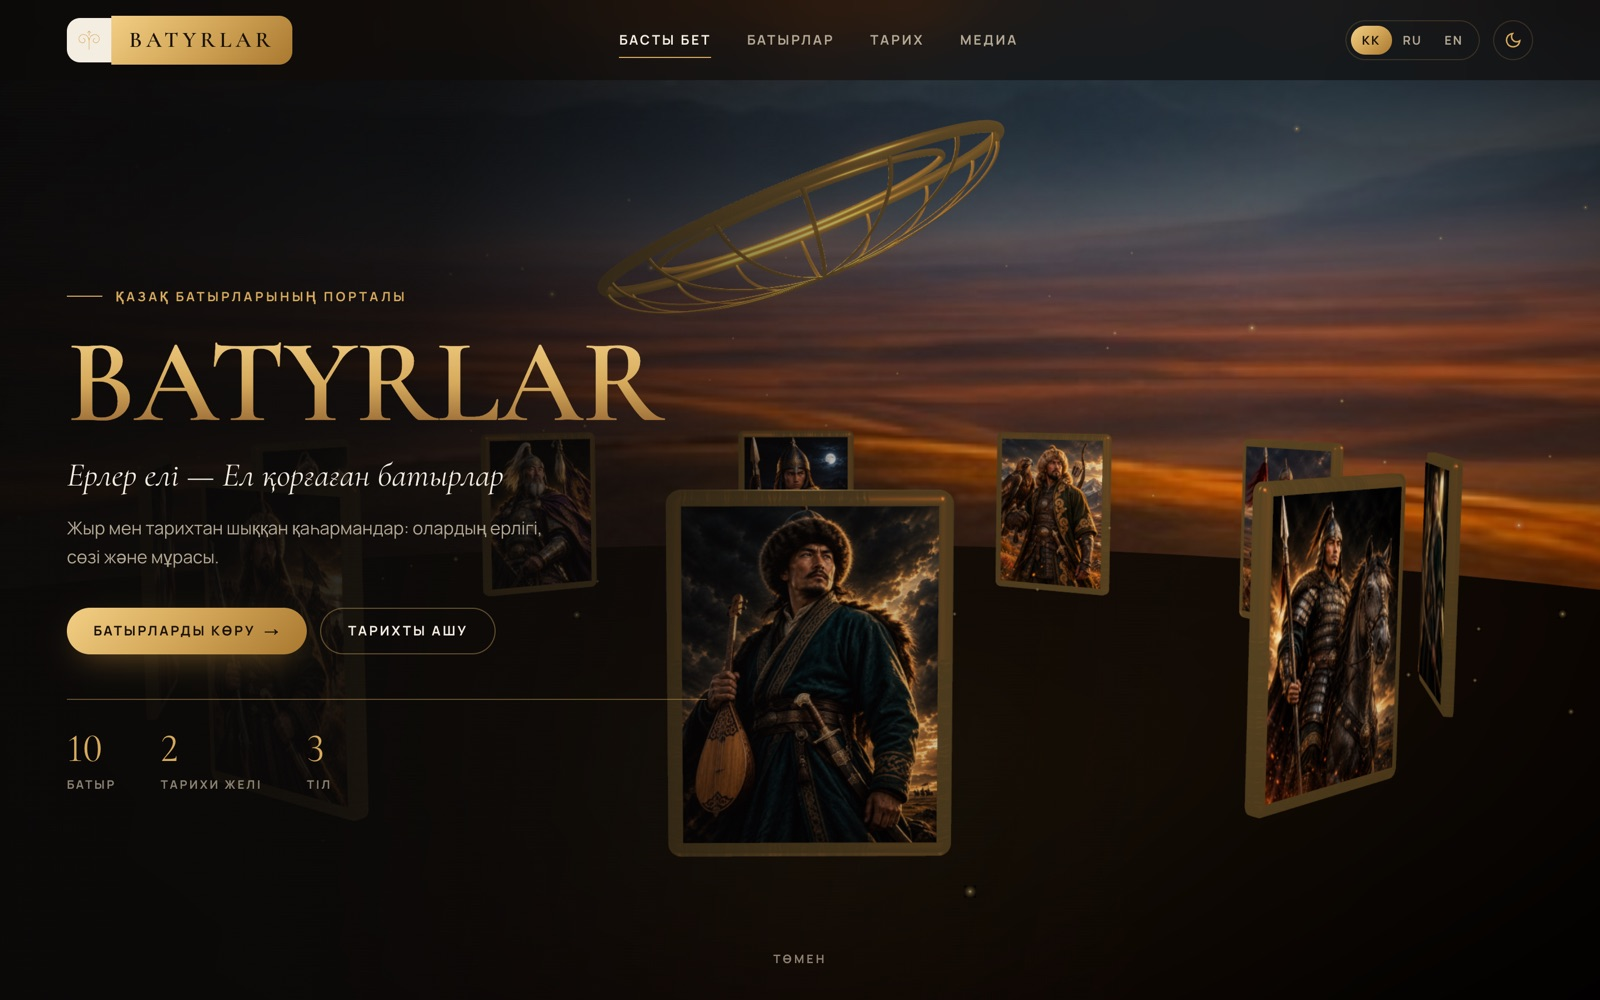
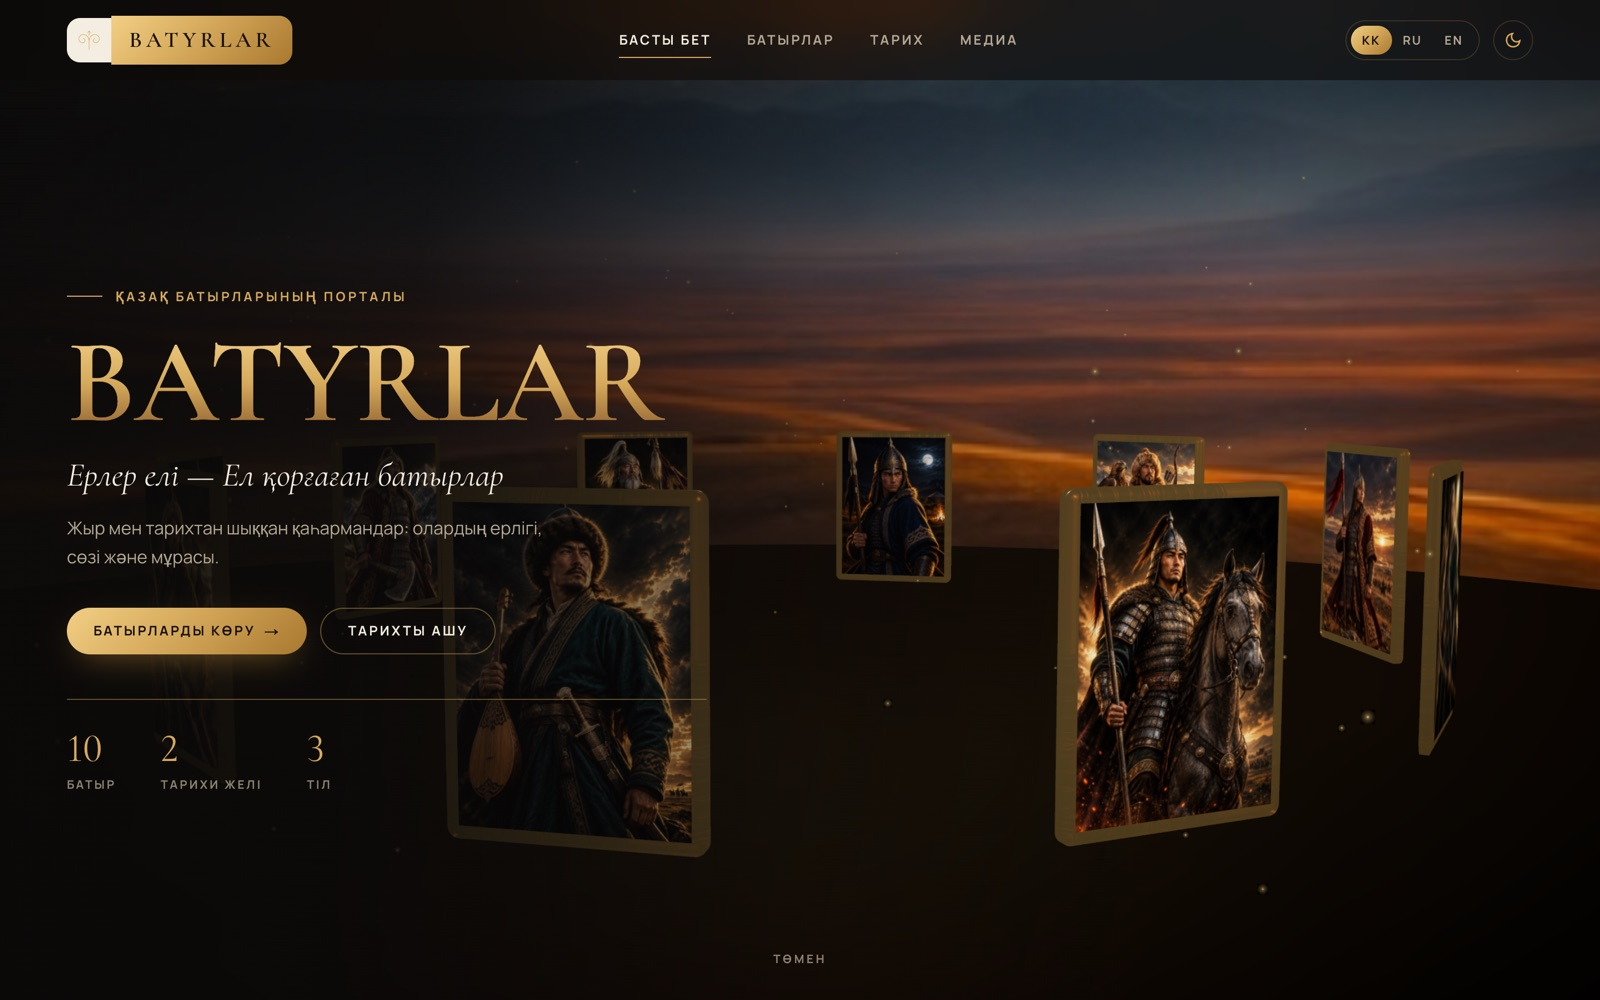
Убрать шаңырақ из 3D-сцены
Золотые обручи попадали в кадр под неудачным углом и перекрывали портреты.
Круг батыров и панорама степи остались. Скриншоты в README и картинка
превью пересняты без обручей.

diff --git a/web/src/components/three/HeroScene.tsx b/web/src/components/three/HeroScene.tsx
@@ -14,7 +14,6 @@ import { BackSide, type Group } from "three";
 import type { Batyr } from "@/data/batyrs";
 import { useApp } from "@/lib/store";
 import { BatyrRing } from "./BatyrRing";
-import { Shanyraq } from "./Shanyraq";
 import { asset } from "@/lib/asset";
 
 /** Палитра сцены: днём светлая степь, в тёмной теме — закатная. */
@@ -182,7 +181,6 @@ export default function HeroScene({ batyrs }: { batyrs: Batyr[] }) {
         <SteppeSky src={palette.sky} />
         <Floor simple={lowPower} palette={palette} />
         <BatyrRing batyrs={ring} frameColor={palette.frame} />
-        <Shanyraq color={palette.frame} />
         <Sparkles
           count={lowPower ? 40 : 120}
           scale={[16, 7, 16]}

diff --git a/README.md b/README.md
@@ -6,7 +6,7 @@
 
 **Сайт:** https://berik2001.github.io/batyrlar/ · первая, статическая версия — https://berik2001.github.io/batyrlar/classic/
 
-![Главная страница: 3D-круг портретов батыров под шаңырақом](docs/screenshots/hero.jpg)
+![Главная страница: 3D-круг портретов батыров](docs/screenshots/hero.jpg)
 
 | Каталог | Страница батыра |
 | --- | --- |
